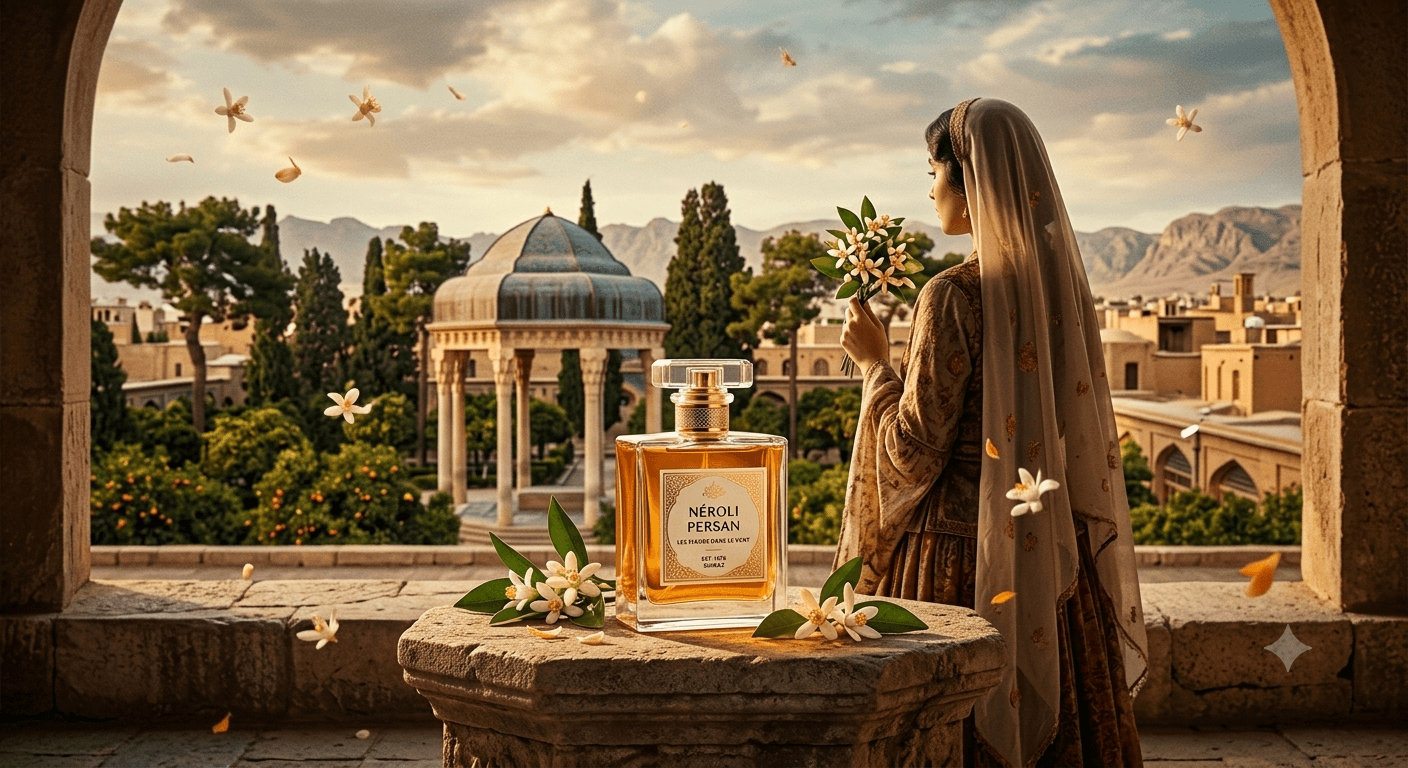
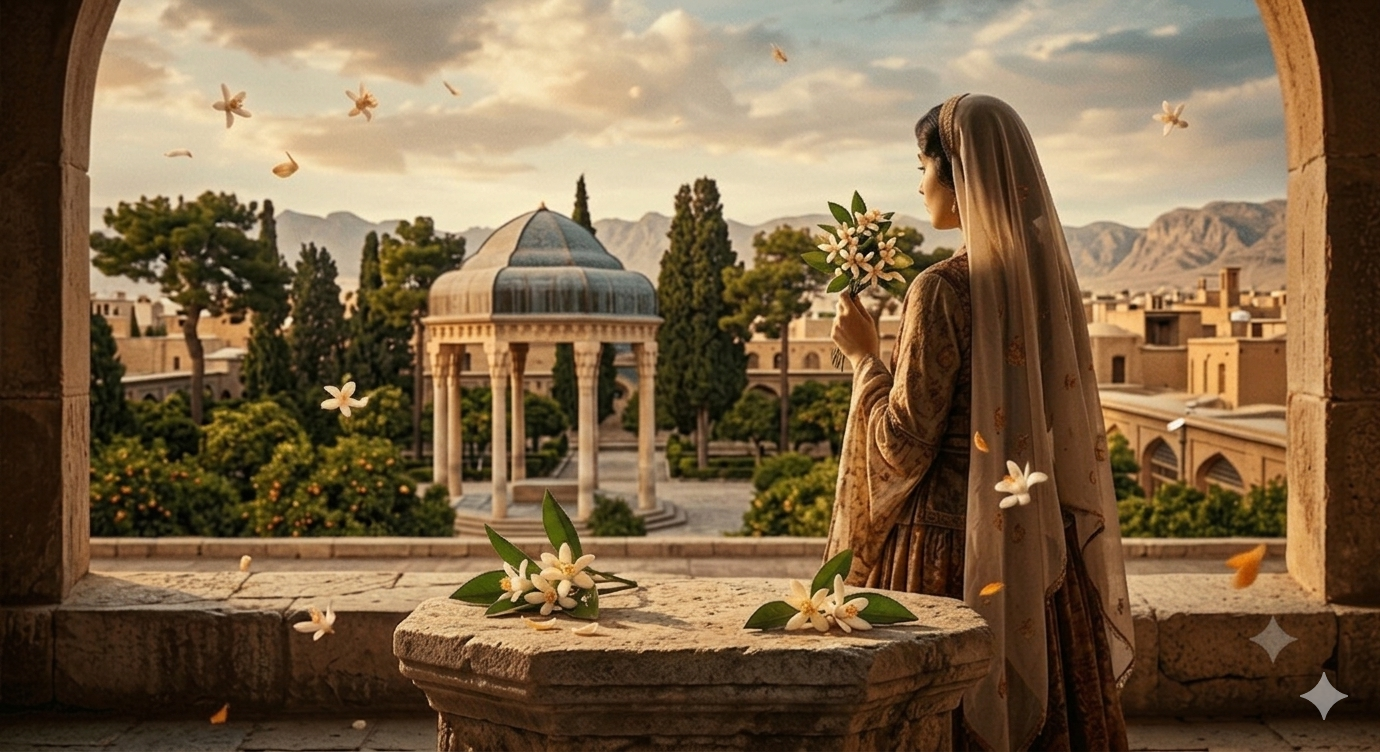
p3

diff --git a/style.css b/style.css
@@ -69,7 +69,7 @@ a {
 .hero {
     position: relative;
     height: 100vh;
-    background-image: url('https://p.turbosquid.com/ts-thumb/Vg/JzP7MB/YA/1/jpg/1726235782/1920x1080/fit_q87/880615592c302dc513ebc641a4d669ecd8aff3d7/1.jpg'); /* Replace with actual background image */
+    background-image: url('s1.png'); /* Replace with actual background image */
     background-size: cover;
     background-position: center;
     display: flex;
@@ -78,7 +78,7 @@ a {
     color: var(--text-light);
     padding: 30px 50px;
     background-color: #000;
-    margin-top: 100px;
+    margin-top: 120px;
 }
 
 .hero-overlay {
@@ -388,6 +388,7 @@ a {
     margin-top: auto;
     margin-bottom: auto;
     padding-left: 20px;
+
 }
 
 .hero-content .subtitle {

diff --git a/index.html b/index.html
@@ -115,14 +115,14 @@
                     </svg>
                     <div class="seal-flower">✿</div>
                 </div>
-                <img src="s2.png" alt="Neroli Blossom" class="intro-img">
+                <img src="c3.png" alt="Neroli Blossom" class="intro-img">
             </div>
         </div>
     </section>
 
     <section class="grid-section">
         <div class="grid-container">
-            <div class="grid-card" style="background-image: url('s3.png');">
+            <div class="grid-card" style="background-image: url('c17.png');">
                 <div class="card-overlay"></div>
                 <div class="card-content">
                     <span class="card-num">01</span>
